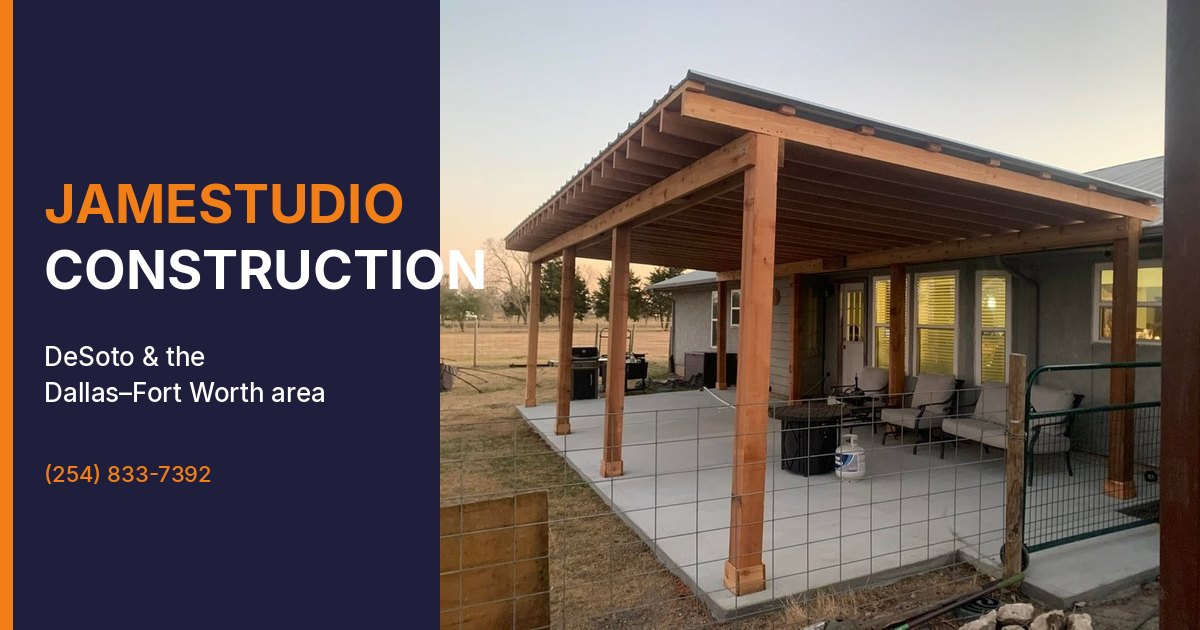
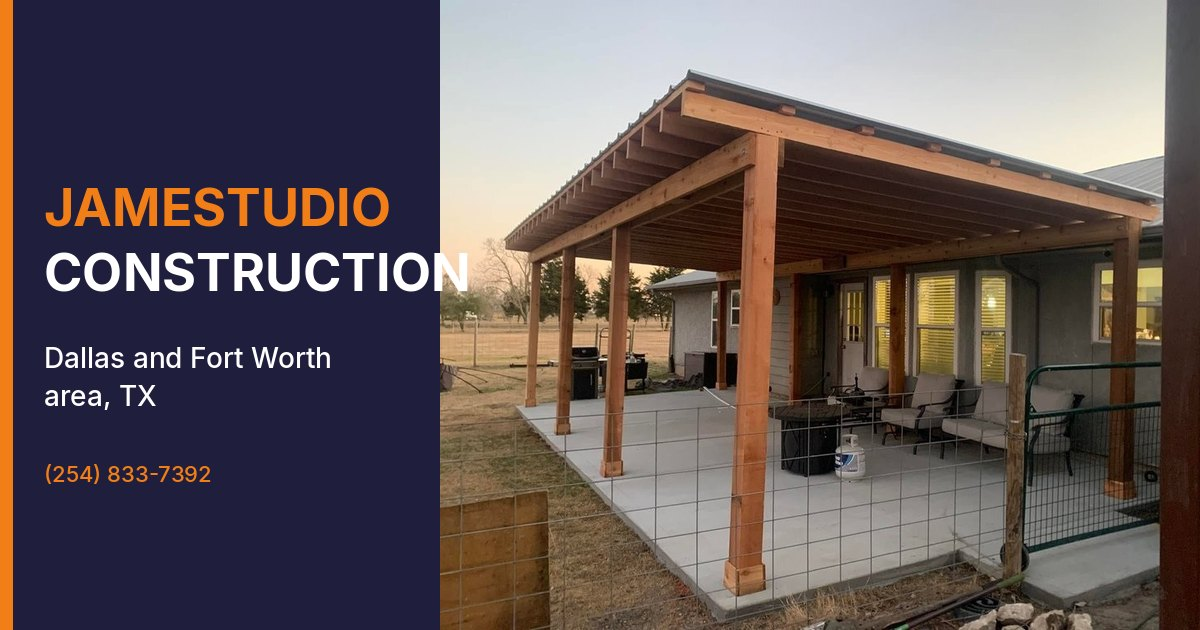
Remove DeSoto from the site and use the Dallas and Fort Worth area.
Address, titles, meta, schema, service copy, the README, and the share image no longer name DeSoto or the 75134 ZIP. The founder name stays.

Changed region(s): [[0.0308, 0.3921, 0.4008, 0.4825], [0.0308, 0.2714, 0.3392, 0.3619], [0.0308, 0.5429, 0.2775, 0.6635]]

diff --git a/src/config/site.ts b/src/config/site.ts
@@ -29,7 +29,7 @@ export type Service = {
 
 export type City = {
   name: string;
-  /** home = DeSoto base. past = a city where he has done work. Omit for service-area cities. */
+  /** past = a city where he has done work. Omit for service-area cities. */
   role?: "home" | "past";
 };
 
@@ -44,7 +44,7 @@ export const site = {
     "We are insured and give warranty!",
   ],
   description:
-    "James Studio Construction is a home-improvement contractor based in DeSoto, Texas, serving DeSoto and the Dallas–Fort Worth area.",
+    "James Studio Construction is a home-improvement contractor serving the Dallas and Fort Worth area.",
 
   phoneDisplay: "(254) 833-7392",
   phoneTel: "+12548337392",
@@ -57,22 +57,25 @@ export const site = {
   email: "jamestudio1115@hotmail.com",
 
   address: {
-    city: "DeSoto",
     region: "TX",
-    postalCode: "75134",
     country: "US",
   },
 
-  serviceAreaLabel: "DeSoto & the Dallas–Fort Worth area",
+  /** Shown in place of a street or city address. */
+  displayArea: "Dallas and Fort Worth area, TX",
+  /** Used in page titles and H1s. */
+  titlePlace: "Dallas & Fort Worth, TX",
+  /** Used in structured data for the service area. */
+  schemaArea: "Dallas–Fort Worth",
+  serviceAreaLabel: "the Dallas and Fort Worth area",
 
   /**
    * Cities shown in the service-area section.
-   * role "home" is the home base. role "past" is a city with stated past work.
-   * Cities without a role are part of the Dallas–Fort Worth service area,
+   * role "past" is a city with stated past work.
+   * Cities without a role are part of the service area,
    * not a claim that a job was finished there. Add or remove freely.
    */
   cities: [
-    { name: "DeSoto", role: "home" },
     { name: "McKinney", role: "past" },
     { name: "Garland", role: "past" },
     { name: "Dallas" },
@@ -149,9 +152,9 @@ export const services: Service[] = [
     seoName: "Complete House Remodeling",
     group: "Remodels",
     summary: "Whole-home remodeling for homeowners who want one contractor on the job.",
-    meta: "Complete house remodeling in DeSoto, TX and the Dallas–Fort Worth area by James Studio Construction. Insured, with a warranty. Call for a free estimate.",
+    meta: "Complete house remodeling in Dallas & Fort Worth, TX by James Studio Construction. Insured, with a warranty. Call for a free estimate.",
     paragraphs: [
-      "James Studio Construction takes on complete house remodels for homeowners in DeSoto and the Dallas–Fort Worth area.",
+      "James Studio Construction takes on complete house remodels for homeowners in the Dallas and Fort Worth area.",
       "Quality of work and a friendly atmosphere are the priorities. The company is insured and gives a warranty. Call or request a free estimate and describe the rooms you want redone.",
     ],
   },
@@ -161,9 +164,9 @@ export const services: Service[] = [
     seoName: "Bathroom Remodeling",
     group: "Remodels",
     summary: "Bathroom remodels, including showers, tubs, vanities, and tile.",
-    meta: "Bathroom remodeling in DeSoto, TX. Showers, tubs, vanities, and tile by James Studio Construction. Free estimates for the Dallas–Fort Worth area.",
+    meta: "Bathroom remodeling in Dallas & Fort Worth, TX. Showers, tubs, vanities, and tile by James Studio Construction. Free estimates for the Dallas and Fort Worth area.",
     paragraphs: [
-      "Bathroom remodeling in DeSoto, TX and across the Dallas–Fort Worth area. James Studio Construction remodels bathrooms for local homeowners.",
+      "Bathroom remodeling in the Dallas and Fort Worth area. James Studio Construction remodels bathrooms for local homeowners.",
       "Recent projects include tiled showers, tub replacements, vanities, and floor tile. The company is insured and gives a warranty.",
     ],
   },
@@ -173,9 +176,9 @@ export const services: Service[] = [
     seoName: "Kitchen Remodeling",
     group: "Remodels",
     summary: "Kitchen remodels, from the layout you have to the kitchen you want.",
-    meta: "Kitchen remodeling in DeSoto, TX and the Dallas–Fort Worth area. Request a free estimate from James Studio Construction.",
+    meta: "Kitchen remodeling in Dallas & Fort Worth, TX. Request a free estimate from James Studio Construction.",
     paragraphs: [
-      "Kitchen remodeling is one of the services James Studio Construction offers homeowners in DeSoto and the Dallas–Fort Worth area.",
+      "Kitchen remodeling is one of the services James Studio Construction offers homeowners in the Dallas and Fort Worth area.",
       "Tell James what you want changed and he will follow up with a free estimate. The company is insured and gives a warranty.",
     ],
   },
@@ -185,9 +188,9 @@ export const services: Service[] = [
     seoName: "Tub, Shower & Tile Installation",
     group: "Remodels",
     summary: "Tub replacements, shower builds, and tile on walls and floors.",
-    meta: "Tub, shower, and tile installation in DeSoto, TX. James Studio Construction replaces tubs and builds tiled showers across Dallas–Fort Worth.",
+    meta: "Tub, shower, and tile installation in Dallas & Fort Worth, TX. James Studio Construction replaces tubs and builds tiled showers across the Dallas and Fort Worth area.",
     paragraphs: [
-      "James Studio Construction installs tubs, showers, and tile for homeowners in DeSoto and the Dallas–Fort Worth area.",
+      "James Studio Construction installs tubs, showers, and tile for homeowners in the Dallas and Fort Worth area.",
       "Recent work includes a tub replacement, subway-tile and hexagon showers, a stone-look shower, and a gray tile shower with a niche. Insured, with a warranty.",
     ],
   },
@@ -197,9 +200,9 @@ export const services: Service[] = [
     seoName: "Fencing & Pergolas",
     group: "Outdoor",
     summary: "Wood fences and pergolas, including stained privacy fences and shade structures.",
-    meta: "Fencing and pergolas in DeSoto, TX. Stained wood fences and pergolas by James Studio Construction across the Dallas–Fort Worth area.",
+    meta: "Fencing and pergolas in Dallas & Fort Worth, TX. Stained wood fences and pergolas by James Studio Construction across the Dallas and Fort Worth area.",
     paragraphs: [
-      "Fencing and pergolas are part of the outdoor work James Studio Construction does in DeSoto and the Dallas–Fort Worth area.",
+      "Fencing and pergolas are part of the outdoor work James Studio Construction does in the Dallas and Fort Worth area.",
       "Recent projects include stained wood privacy fences and stained wood pergolas on brick homes. Quality of work and a friendly atmosphere are the priorities.",
     ],
   },
@@ -209,9 +212,9 @@ export const services: Service[] = [
     seoName: "Covered Patios & Patio Covers",
     group: "Outdoor",
     summary: "Wood patio covers and pergolas, including covers with metal roofs.",
-    meta: "Covered patios and patio covers in DeSoto, TX. Wood frames and metal roofs by James Studio Construction in the Dallas–Fort Worth area.",
+    meta: "Covered patios and patio covers in Dallas & Fort Worth, TX. Wood frames and metal roofs by James Studio Construction in the Dallas and Fort Worth area.",
     paragraphs: [
-      "James Studio Construction builds covered patios and patio covers for homeowners in DeSoto and the Dallas–Fort Worth area.",
+      "James Studio Construction builds covered patios and patio covers for homeowners in the Dallas and Fort Worth area.",
       "Recent projects include cedar pergolas, stained pergolas, and wood patio covers with metal roofs, from the slab and posts through the finished cover.",
     ],
   },
@@ -221,9 +224,9 @@ export const services: Service[] = [
     seoName: "Wood Deck Construction",
     group: "Outdoor",
     summary: "Wood decks, including decks built around existing trees.",
-    meta: "Wood deck construction in DeSoto, TX and Dallas–Fort Worth. James Studio Construction builds wood decks, including decks around trees.",
+    meta: "Wood deck construction in Dallas & Fort Worth, TX. James Studio Construction builds wood decks, including decks around trees.",
     paragraphs: [
-      "James Studio Construction builds wood decks for homeowners in DeSoto and the Dallas–Fort Worth area.",
+      "James Studio Construction builds wood decks for homeowners in the Dallas and Fort Worth area.",
       "Recent decks include straight and curved layouts, railings, steps, and a deck built around a mature tree. Insured, with a warranty.",
     ],
   },
@@ -233,9 +236,9 @@ export const services: Service[] = [
     seoName: "Concrete Patio Slabs",
     group: "Outdoor",
     summary: "Concrete slabs poured as the floor for a new patio or cover.",
-    meta: "Concrete patio slabs in DeSoto, TX. James Studio Construction pours slabs for patios and covers across Dallas–Fort Worth.",
+    meta: "Concrete patio slabs in Dallas & Fort Worth, TX. James Studio Construction pours slabs for patios and covers across the Dallas and Fort Worth area.",
     paragraphs: [
-      "Concrete patio slabs are part of the patio work James Studio Construction does in DeSoto and the Dallas–Fort Worth area.",
+      "Concrete patio slabs are part of the patio work James Studio Construction does in the Dallas and Fort Worth area.",
       "On a recent covered patio, the slab was poured and finished before the posts and roof went up. Ask for a free estimate if you need a slab of your own.",
     ],
   },
@@ -245,9 +248,9 @@ export const services: Service[] = [
     seoName: "Built-in Shelving & Carpentry",
     group: "Remodels",
     summary: "Built-in shelves and finish carpentry, from raw boxes to paint.",
-    meta: "Built-in shelving and carpentry in DeSoto, TX. Floor-to-ceiling shelves by James Studio Construction in the Dallas–Fort Worth area.",
+    meta: "Built-in shelving and carpentry in Dallas & Fort Worth, TX. Floor-to-ceiling shelves by James Studio Construction in the Dallas and Fort Worth area.",
     paragraphs: [
-      "James Studio Construction builds built-in shelving and other carpentry for homeowners in DeSoto and the Dallas–Fort Worth area.",
+      "James Studio Construction builds built-in shelving and other carpentry for homeowners in the Dallas and Fort Worth area.",
       "A recent project is a floor-to-ceiling shelving wall, photographed raw and again after it was painted, with doors on the lower cabinets.",
     ],
   },
@@ -257,9 +260,9 @@ export const services: Service[] = [
     seoName: "Interior & Exterior Painting",
     group: "Exterior",
     summary: "Interior and exterior paint for the rooms and the outside of the house.",
-    meta: "Interior and exterior painting in DeSoto, TX. James Studio Construction paints for homeowners across the Dallas–Fort Worth area.",
+    meta: "Interior and exterior painting in Dallas & Fort Worth, TX. James Studio Construction paints for homeowners across the Dallas and Fort Worth area.",
     paragraphs: [
-      "Interior and exterior painting is one of the services James Studio Construction offers in DeSoto and the Dallas–Fort Worth area.",
+      "Interior and exterior painting is one of the services James Studio Construction offers in the Dallas and Fort Worth area.",
       "Quality of work and a friendly atmosphere are the priorities. Call or send a few photos of the walls or siding and James will follow up with a free estimate.",
     ],
   },
@@ -269,9 +272,9 @@ export const services: Service[] = [
     seoName: "Cedar & Exterior Siding",
     group: "Exterior",
     summary: "Exterior siding, including cedar siding on dormers and additions.",
-    meta: "Cedar and exterior siding in DeSoto, TX. James Studio Construction installs siding, including cedar, across Dallas–Fort Worth.",
+    meta: "Cedar and exterior siding in Dallas & Fort Worth, TX. James Studio Construction installs siding, including cedar, across the Dallas and Fort Worth area.",
     paragraphs: [
-      "James Studio Construction installs siding for homeowners in DeSoto and the Dallas–Fort Worth area, including cedar siding.",
+      "James Studio Construction installs siding for homeowners in the Dallas and Fort Worth area, including cedar siding.",
       "Recent photos show cedar siding on a dormer, set next to a brick chimney and a shingle roof. The company is insured and gives a warranty.",
     ],
   },
@@ -281,9 +284,9 @@ export const services: Service[] = [
     seoName: "Framing",
     group: "Exterior",
     summary: "Wood framing for covers, remodels, and the structure under the finish.",
-    meta: "Framing in DeSoto, TX. Wood framing for patios and remodels by James Studio Construction in the Dallas–Fort Worth area.",
+    meta: "Framing in Dallas & Fort Worth, TX. Wood framing for patios and remodels by James Studio Construction in the Dallas and Fort Worth area.",
     paragraphs: [
-      "Framing is part of the work James Studio Construction does on remodels and outdoor covers in DeSoto and the Dallas–Fort Worth area.",
+      "Framing is part of the work James Studio Construction does on remodels and outdoor covers in the Dallas and Fort Worth area.",
       "Recent framing includes the posts and rafters under a patio cover, and the opened walls of a bathroom during a remodel.",
     ],
   },
@@ -293,9 +296,9 @@ export const services: Service[] = [
     seoName: "Metal Roofing",
     group: "Exterior",
     summary: "Metal roofs, including metal roofs on patio covers.",
-    meta: "Metal roofing in DeSoto, TX. Patio-cover and house metal roofs by James Studio Construction across the Dallas–Fort Worth area.",
+    meta: "Metal roofing in Dallas & Fort Worth, TX. Patio-cover and house metal roofs by James Studio Construction across the Dallas and Fort Worth area.",
     paragraphs: [
-      "James Studio Construction installs metal roofing in DeSoto and the Dallas–Fort Worth area.",
+      "James Studio Construction installs metal roofing in the Dallas and Fort Worth area.",
       "Recent work includes corrugated metal roofs on wood patio covers and metal roofing on the house those covers are attached to. Shingle roofing is available too.",
     ],
   },
@@ -305,9 +308,9 @@ export const services: Service[] = [
     seoName: "Shingle Roofing",
     group: "Exterior",
     summary: "Asphalt shingle roofs, including shingles tied into cedar siding.",
-    meta: "Shingle roofing in DeSoto, TX. James Studio Construction installs shingle roofs for homeowners in the Dallas–Fort Worth area.",
+    meta: "Shingle roofing in Dallas & Fort Worth, TX. James Studio Construction installs shingle roofs for homeowners in the Dallas and Fort Worth area.",
     paragraphs: [
-      "Shingle roofing is part of the exterior work James Studio Construction does in DeSoto and the Dallas–Fort Worth area.",
+      "Shingle roofing is part of the exterior work James Studio Construction does in the Dallas and Fort Worth area.",
       "Recent photos show architectural shingles on a dormer finished with cedar siding, and shingles meeting a new metal patio roof. Metal roofing is available as well.",
     ],
   },
@@ -317,9 +320,9 @@ export const services: Service[] = [
     seoName: "House Repairs",
     group: "Repairs",
     summary: "House repairs for the problems that do not need a full remodel.",
-    meta: "House repairs in DeSoto, TX. James Studio Construction handles home repairs across the Dallas–Fort Worth area. Free estimates.",
+    meta: "House repairs in Dallas & Fort Worth, TX. James Studio Construction handles home repairs across the Dallas and Fort Worth area. Free estimates.",
     paragraphs: [
-      "James Studio Construction handles house repairs for homeowners in DeSoto and the Dallas–Fort Worth area.",
+      "James Studio Construction handles house repairs for homeowners in the Dallas and Fort Worth area.",
       "Describe what broke or what you want fixed. Quality of work and a friendly atmosphere are the priorities, and the company is insured and gives a warranty.",
     ],
   },
@@ -329,9 +332,9 @@ export const services: Service[] = [
     seoName: "Demolition",
     group: "Repairs",
     summary: "Demolition that clears a room or a damaged area before the new work.",
-    meta: "Demolition in DeSoto, TX. James Studio Construction does demolition for remodels and repairs across Dallas–Fort Worth.",
+    meta: "Demolition in Dallas & Fort Worth, TX. James Studio Construction does demolition for remodels and repairs across the Dallas and Fort Worth area.",
     paragraphs: [
-      "Demolition is part of the remodel and repair work James Studio Construction does in DeSoto and the Dallas–Fort Worth area.",
+      "Demolition is part of the remodel and repair work James Studio Construction does in the Dallas and Fort Worth area.",
       "On a recent bathroom, the old finishes came out before the new tub and tile. Water-damage jobs can include demo as well, along with extraction, drying, and moisture monitoring.",
     ],
   },
@@ -341,9 +344,9 @@ export const services: Service[] = [
     seoName: "Water Damage Mitigation",
     group: "Repairs",
     summary: "Extraction, demo, drying, and moisture monitoring after a leak or flood.",
-    meta: "Water damage mitigation in DeSoto, TX. Extraction, demo, drying, and moisture monitoring by James Studio Construction.",
+    meta: "Water damage mitigation in Dallas & Fort Worth, TX. Extraction, demo, drying, and moisture monitoring by James Studio Construction.",
     paragraphs: [
-      "James Studio Construction does water damage mitigation for homeowners in DeSoto and the Dallas–Fort Worth area.",
+      "James Studio Construction does water damage mitigation for homeowners in the Dallas and Fort Worth area.",
       "The work covers extraction, demo, drying, and moisture monitoring. The company is insured and gives a warranty. Call if you have an active leak.",
     ],
     includes: ["Extraction", "Demo", "Drying", "Moisture monitoring"],
@@ -421,15 +424,14 @@ export function businessJsonLd(origin: string) {
     },
     address: {
       "@type": "PostalAddress",
-      addressLocality: site.address.city,
+      addressLocality: site.schemaArea,
       addressRegion: site.address.region,
-      postalCode: site.address.postalCode,
       addressCountry: site.address.country,
     },
-    areaServed: site.cities.map((city) => ({
-      "@type": "City",
-      name: `${city.name}, ${site.address.region}`,
-    })),
+    areaServed: {
+      "@type": "Place",
+      name: site.schemaArea,
+    },
     sameAs: [site.facebook.url],
     hasOfferCatalog: {
       "@type": "OfferCatalog",
@@ -440,7 +442,7 @@ export function businessJsonLd(origin: string) {
           "@type": "Service",
           name: service.seoName,
           url: `${url}/services/${service.slug}/`,
-          areaServed: `${site.address.city}, ${site.address.region}`,
+          areaServed: site.schemaArea,
           provider: { "@id": `${url}/#business` },
         },
       })),

diff --git a/README.md b/README.md
@@ -1,6 +1,6 @@
 # James Studio Construction
 
-Marketing site for **James Studio Construction** (styled JAMESTUDIO CONSTRUCTION), based in DeSoto, TX. It is a static [Astro](https://astro.build) site aimed at local Google leads: phone calls and free-estimate requests.
+Marketing site for **James Studio Construction** (styled JAMESTUDIO CONSTRUCTION), serving the Dallas and Fort Worth area. It is a static [Astro](https://astro.build) site aimed at local Google leads: phone calls and free-estimate requests.
 
 ```bash
 npm install
@@ -28,7 +28,7 @@ All contact details, services, service-area cities, the quote-form backend, and 
 
 Hours and the license number are unknown. The site hides them while those fields are `null`. Do not invent them.
 
-`role: "home"` marks DeSoto. `role: "past"` marks cities where James has done work (McKinney and Garland). Other cities are the Dallas–Fort Worth service area, not a claim that a job was finished there.
+`role: "past"` marks cities where James has done work (McKinney and Garland). Other cities are part of the Dallas and Fort Worth service area, not a claim that a job was finished there. The public area label is “the Dallas and Fort Worth area.”
 
 ## Change the email to the new Gmail
 
@@ -80,5 +80,5 @@ After deploy, submit `https://YOUR-DOMAIN/sitemap-index.xml` in Google Search Co
 - Canonical URL, Open Graph, and Twitter card tags
 - `HomeAndConstructionBusiness` JSON-LD built from `src/config/site.ts`
 - `sitemap-index.xml` and `robots.txt`
-- One page per service, titled for DeSoto (for example “Bathroom Remodeling in DeSoto, TX”)
+- One page per service, titled for Dallas & Fort Worth, TX (for example “Bathroom Remodeling in Dallas & Fort Worth, TX”)
 - Analytics tag renders only when `gaMeasurementId` is a real `G-` id
